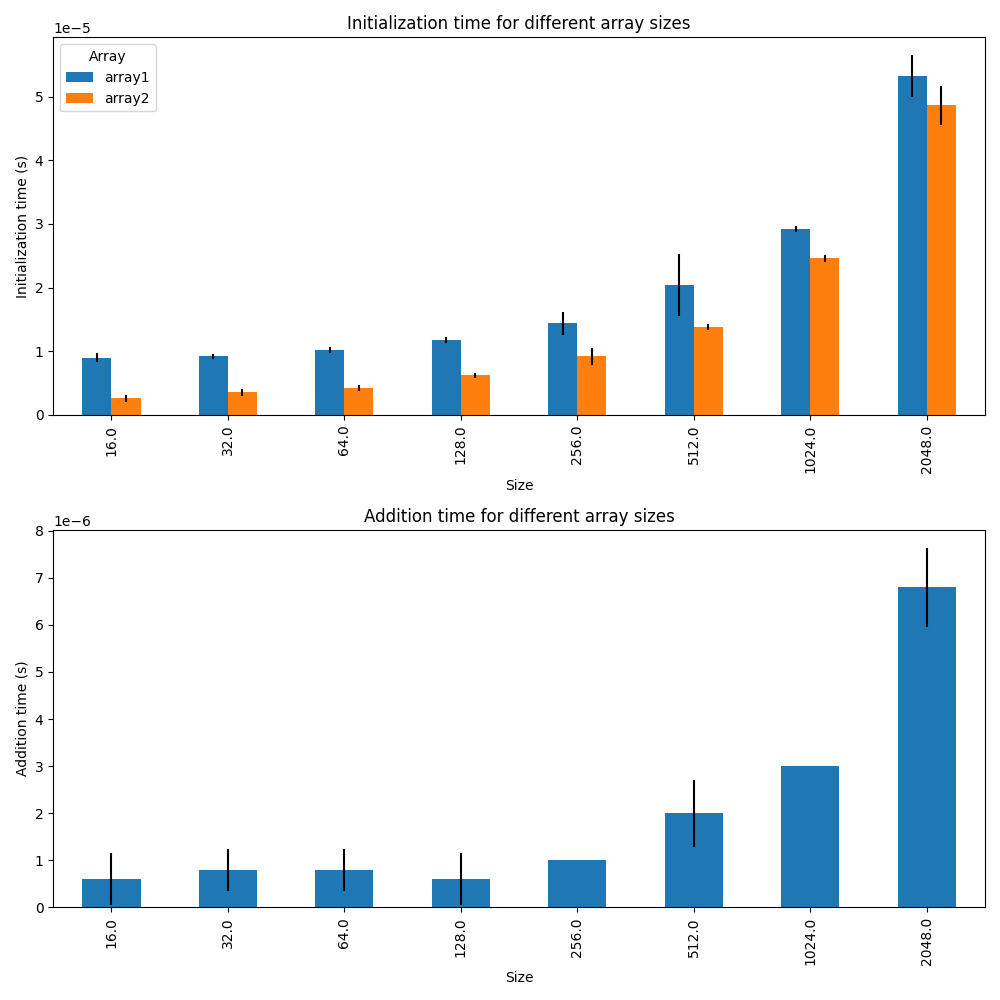
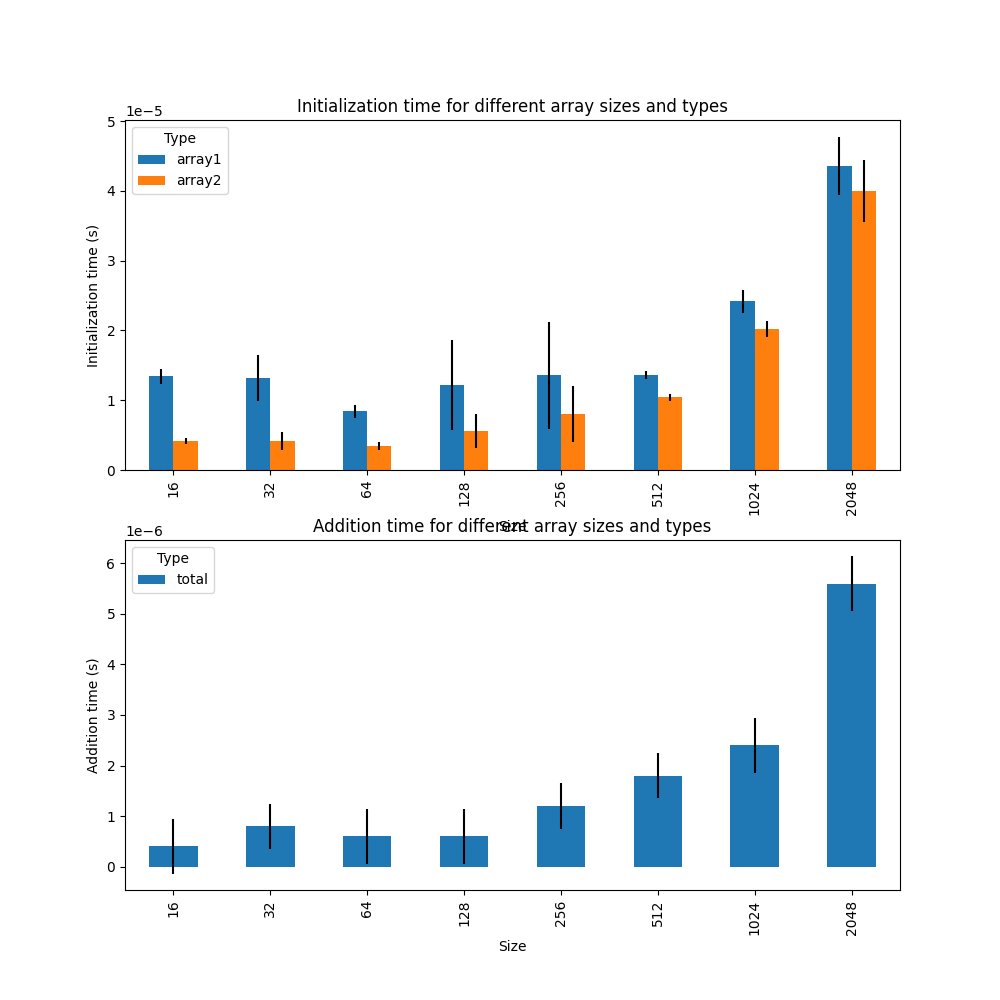
refactor(project): :recycle: update analysis scripts
update bash and python scripts to have more general analysis for C programs
it now works w/ different C programs that outputs the same type of logs

diff --git a/src/seq_array_analysis.py b/src/seq_array_analysis.py
@@ -9,7 +9,7 @@ if len(sys.argv) != 3:
 
 # Load the data
 data = pd.read_csv(
-    sys.argv[1], header=None, names=["Size", "Operation", "Array", "Time"]
+    sys.argv[1], header=None, names=["Size", "Operation", "Type", "Time"]
 )
 
 # Convert 'Size' to numeric, errors='coerce' will replace non-numeric values with NaN
@@ -22,23 +22,23 @@ data = data.dropna(subset=["Size"])
 init_data = data[data["Operation"] == "Initialization"]
 add_data = data[data["Operation"] == "Addition"]
 
-# Calculate mean and standard deviation for each size and array
-init_means = init_data.groupby(["Size", "Array"])["Time"].mean().unstack()
-init_stds = init_data.groupby(["Size", "Array"])["Time"].std().unstack()
+# Calculate mean and standard deviation for each size and type
+init_means = init_data.groupby(["Size", "Type"])["Time"].mean().unstack()
+init_stds = init_data.groupby(["Size", "Type"])["Time"].std().unstack()
 
-add_means = add_data.groupby("Size")["Time"].mean()
-add_stds = add_data.groupby("Size")["Time"].std()
+add_means = add_data.groupby(["Size", "Type"])["Time"].mean().unstack()
+add_stds = add_data.groupby(["Size", "Type"])["Time"].std().unstack()
 
 # Plot the results
 fig, ax = plt.subplots(2, 1, figsize=(10, 10))
 
 init_means.plot(kind="bar", yerr=init_stds, ax=ax[0])
 ax[0].set_ylabel("Initialization time (s)")
-ax[0].set_title("Initialization time for different array sizes")
+ax[0].set_title("Initialization time for different array sizes and types")
 
 add_means.plot(kind="bar", yerr=add_stds, ax=ax[1])
 ax[1].set_ylabel("Addition time (s)")
-ax[1].set_title("Addition time for different array sizes")
+ax[1].set_title("Addition time for different array sizes and types")
 
 # Save the plot to the specified PNG file
 plt.savefig(sys.argv[2])

diff --git a/src/seq_array.c b/src/seq_array.c
@@ -45,7 +45,7 @@ int main(int argc, char *argv[]) {
   add_arrays(array1, array2, result, size);
   end = clock();
   cpu_time_used = ((double)(end - start)) / CLOCKS_PER_SEC;
-  printf("%d,Addition,,%f\n", size, cpu_time_used);
+  printf("%d,Addition,total,%f\n", size, cpu_time_used);
 
   // Print the result array
   //   for (int i = 0; i < size; i++) {

diff --git a/src/add_matrix.c b/src/add_matrix.c
@@ -54,7 +54,7 @@ int main(int argc, char *argv[]) {
   add_matrices(matrix1, matrix2, result, size);
   end = clock();
   cpu_time_used = ((double)(end - start)) / CLOCKS_PER_SEC;
-  printf("%d,Addition,result,%f\n", size, cpu_time_used);
+  printf("%d,Addition,total,%f\n", size, cpu_time_used);
 
   for (int i = 0; i < size; i++) {
     free(matrix1[i]);
